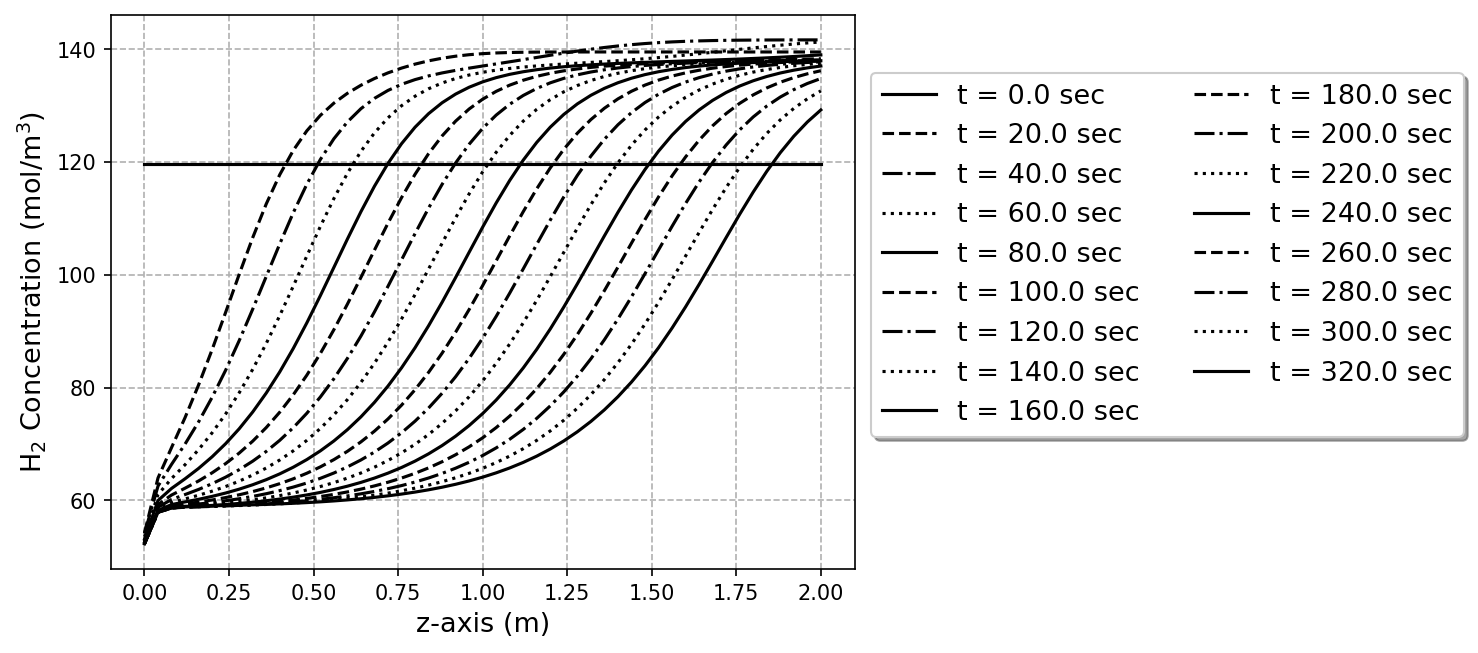
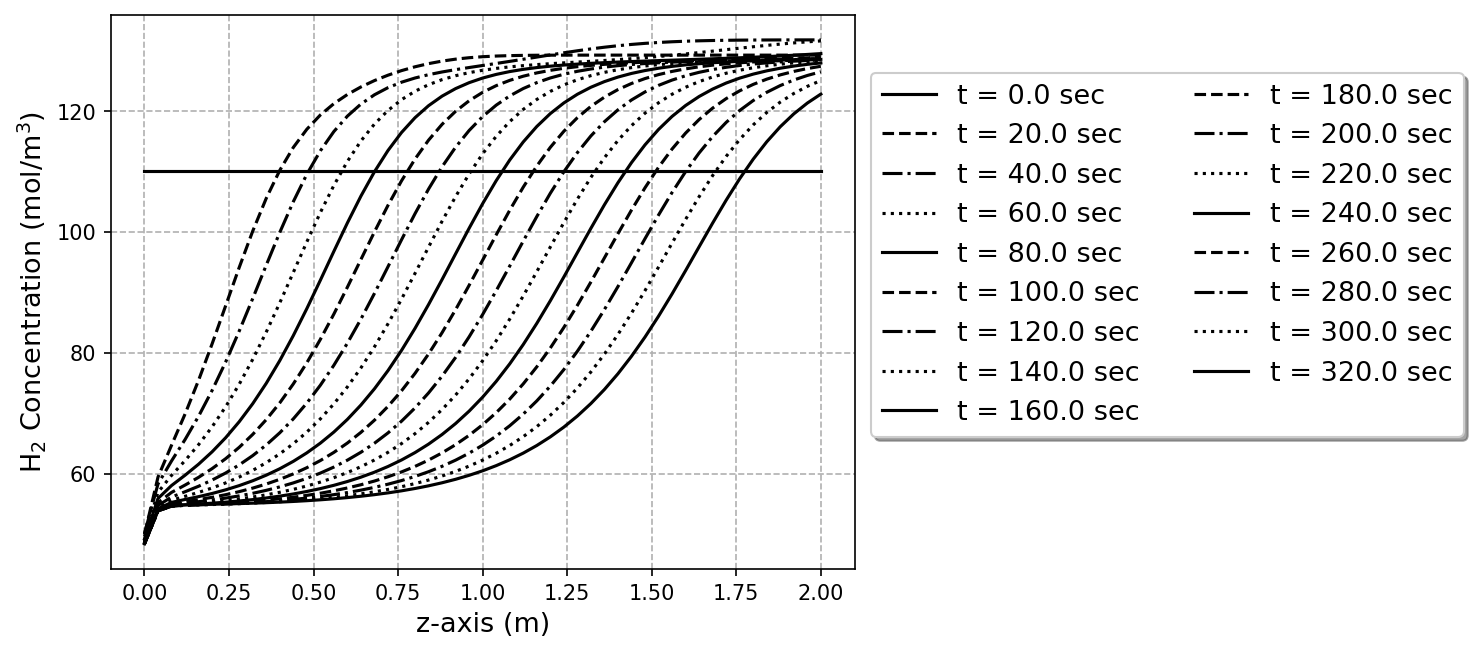
Diff results

diff --git a/SE_model/column_v05_rxn_const_WGS_6bar_623K.py b/SE_model/column_v05_rxn_const_WGS_6bar_623K.py
@@ -6,8 +6,8 @@ import matplotlib.pyplot as plt
 # %%
 # Reaction parameters
 # %%
-T_g  = 773 # K # Temperature (400 oC)
-T_init = 773
+T_g  = 623 # K # Temperature (400 oC)
+T_init = 623
 K_eq = 10**(-2.4198 + 0.0003855*T_g + 2180.6/T_g) # Equilibrium constant
 k_r1 = 0.1 # (mol/m^3/s/bar^2) r1 = k_r1*P2*P3
 k_r2 = k_r1/K_eq # (mol/m^3/s/bar^2) r2 = k_r2*P1*P4
@@ -113,7 +113,7 @@ def iso(P1,P2,P3,P4):
 # Initial Values
 # %%
 # Initial P, T, C1, C2, q1, q2, y0
-P_init = 3.2E5*np.ones([N,])    # (Pa)
+P_init = 5.7E5*np.ones([N,])    # (Pa)
 #T_init = 773
 R_gas = 8.3145
 # Gas phase
@@ -136,10 +136,10 @@ y0 = np.concatenate([C1_init, C2_init, C3_init, C4_init,
 # Boundary Conditions
 # %%
 # Pressure & velcotiy conditions
-P_end = 3.0       # (bar)
+P_end = 5.5       # (bar)
 Cv_out = 2E-2 
 u_feed = 0.05
-P_feed = 4.5    # (bar)
+P_feed = 7.0    # (bar)
 
 # Inlet conditions
 T_feed = T_init
@@ -464,6 +464,7 @@ create_gif_fixed_yaxis(y_res[:, 4*N:5*N], z_dom, t_sample, ii_arr,
                        'H$_{2}$ uptake (mol/kg)', 
                        'results_gif/res_q1_profile_H2.gif',
                        y_limits = [-0.0001, 0.005],interval = 100) # H2
+
 create_gif_fixed_yaxis(y_res[:, 5*N:6*N], z_dom, t_sample, ii_arr,
                        'CO uptake (mol/kg)', 
                        'results_gif/res_q2_profile_CO.gif',
@@ -473,11 +474,11 @@ create_gif_fixed_yaxis(y_res[:, 6*N:7*N], z_dom, t_sample, ii_arr,
                        'H$_{2}$O uptake (mol/kg)', 
                        'results_gif/res_q3_profile_H2O.gif',
                        y_limits = [-0.002, 0.2],interval = 100) # H2O
-
+#%%
 create_gif_fixed_yaxis(y_res[:, 7*N:8*N], z_dom, t_sample, ii_arr,
-                       'CO$_{2}$ Concentration (mol/m$^{3}$)', 
+                       'CO$_{2}$ uptkae (mol/kg)', 
                        'results_gif/res_q4_profile_CO2.gif',
-                       y_limits = [-0.03, 1.2],interval = 100) # CO2
+                       y_limits = [-0.03, 1.7],interval = 100) # CO2
 
 # %%
 # Mole fraction
@@ -485,14 +486,17 @@ create_gif_fixed_yaxis(y_res[:, 0*N:1*N]/C_ov, z_dom, t_sample, ii_arr,
                        'H$_{2}$ mole frac. (mol/mol)',
                        'results_gif/res_y1_profile_H2.gif',
                        y_limits=[-0.01, 1.05], interval=100) # H2
+
 create_gif_fixed_yaxis(y_res[:, 1*N:2*N]/C_ov, z_dom, t_sample, ii_arr,
                        'CO mole frac. (mol/mol)',
                        'results_gif/res_y2_profile_CO.gif',
                        y_limits=[-0.01, 1.05], interval=100) # CO
+
 create_gif_fixed_yaxis(y_res[:, 2*N:3*N]/C_ov, z_dom, t_sample, ii_arr,
                        'H$_{2}$O mole frac. (mol/mol)',
                        'results_gif/res_y3_profile_H2O.gif',
                        y_limits=[-0.01, 1.05], interval=100) # H2O
+
 create_gif_fixed_yaxis(y_res[:, 3*N:4*N]/C_ov, z_dom, t_sample, ii_arr,
                        'CO$_{2}$ mole frac. (mol/mol)',
                        'results_gif/res_y4_profile_CO2.gif',
